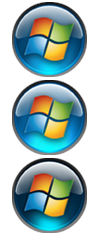
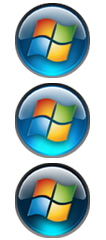
Fix Vista orb appearing offscreen with autohide
Also had to tweak the viewbox of scaled images due to other states bleeding in
Also fixed some brief orb positioning issues when changing the taskbar edge with autohide

diff --git a/RetroBar/Themes/Windows Vista Aero.xaml b/RetroBar/Themes/Windows Vista Aero.xaml
@@ -1063,6 +1063,8 @@
                                                     Viewbox="0,0,1,0.3333" />
                                     </Setter.Value>
                                 </Setter>
+                                <Setter Property="Margin" Value="0,-5,0,0" />
+                                <Setter Property="Height" Value="35" />
                             </MultiDataTrigger.Setters>
                         </MultiDataTrigger>
                         <MultiDataTrigger>
@@ -1080,7 +1082,7 @@
                                     <Setter.Value>
                                         <ImageBrush ImageSource="{DynamicResource StartButtonImageBottomScaled}"
                                                     ViewboxUnits="RelativeToBoundingBox"
-                                                    Viewbox="0,0,1,0.3333" />
+                                                    Viewbox="0,0.01,1,0.32" />
                                     </Setter.Value>
                                 </Setter>
                             </MultiDataTrigger.Setters>
@@ -1122,7 +1124,7 @@
                                     <Setter.Value>
                                         <ImageBrush ImageSource="{DynamicResource StartButtonImageBottomScaled}"
                                                     ViewboxUnits="RelativeToBoundingBox"
-                                                    Viewbox="0,0.3333,1,0.3333" />
+                                                    Viewbox="0,0.3433,1,0.32" />
                                     </Setter.Value>
                                 </Setter>
                             </MultiDataTrigger.Setters>
@@ -1164,7 +1166,7 @@
                                     <Setter.Value>
                                         <ImageBrush ImageSource="{DynamicResource StartButtonImageBottomScaled}"
                                                     ViewboxUnits="RelativeToBoundingBox"
-                                                    Viewbox="0,0.6666,1,0.3333" />
+                                                    Viewbox="0,0.6766,1,0.32" />
                                     </Setter.Value>
                                 </Setter>
                             </MultiDataTrigger.Setters>
@@ -1206,7 +1208,7 @@
                                     <Setter.Value>
                                         <ImageBrush ImageSource="{DynamicResource StartButtonImageBottomScaled}"
                                                     ViewboxUnits="RelativeToBoundingBox"
-                                                    Viewbox="0,0.6666,1,0.3333" />
+                                                    Viewbox="0,0.6766,1,0.32" />
                                     </Setter.Value>
                                 </Setter>
                             </MultiDataTrigger.Setters>
@@ -1214,7 +1216,7 @@
                         <MultiDataTrigger>
                             <MultiDataTrigger.Conditions>
                                 <Condition Binding="{Binding Path=AppBarEdge, RelativeSource={RelativeSource Mode=FindAncestor, AncestorType={x:Type Window}}}"
-                                     Value="Top"/>
+                                           Value="Top"/>
                                 <Condition Binding="{Binding Path=Rows, RelativeSource={RelativeSource Mode=FindAncestor, AncestorType={x:Type Window}}}"
                                            Value="1"/>
                             </MultiDataTrigger.Conditions>
@@ -1227,6 +1229,8 @@
                                                     Viewbox="0,0,1,0.3333" />
                                     </Setter.Value>
                                 </Setter>
+                                <Setter Property="Margin" Value="0,0,0,-6" />
+                                <Setter Property="Height" Value="36" />
                             </MultiDataTrigger.Setters>
                         </MultiDataTrigger>
                         <MultiDataTrigger>
@@ -1244,7 +1248,7 @@
                                     <Setter.Value>
                                         <ImageBrush ImageSource="{DynamicResource StartButtonImageTopScaled}"
                                                     ViewboxUnits="RelativeToBoundingBox"
-                                                    Viewbox="0,0,1,0.3333" />
+                                                    Viewbox="0,0,1,0.32" />
                                     </Setter.Value>
                                 </Setter>
                             </MultiDataTrigger.Setters>
@@ -1286,7 +1290,7 @@
                                     <Setter.Value>
                                         <ImageBrush ImageSource="{DynamicResource StartButtonImageTopScaled}"
                                                     ViewboxUnits="RelativeToBoundingBox"
-                                                    Viewbox="0,0.3333,1,0.3333" />
+                                                    Viewbox="0,0.3333,1,0.32" />
                                     </Setter.Value>
                                 </Setter>
                             </MultiDataTrigger.Setters>
@@ -1328,7 +1332,7 @@
                                     <Setter.Value>
                                         <ImageBrush ImageSource="{DynamicResource StartButtonImageTopScaled}"
                                                     ViewboxUnits="RelativeToBoundingBox"
-                                                    Viewbox="0,0.6666,1,0.3333" />
+                                                    Viewbox="0,0.6666,1,0.32" />
                                     </Setter.Value>
                                 </Setter>
                             </MultiDataTrigger.Setters>
@@ -1370,7 +1374,7 @@
                                     <Setter.Value>
                                         <ImageBrush ImageSource="{DynamicResource StartButtonImageTopScaled}"
                                                     ViewboxUnits="RelativeToBoundingBox"
-                                                    Viewbox="0,0.6666,1,0.3333" />
+                                                    Viewbox="0,0.6666,1,0.32" />
                                     </Setter.Value>
                                 </Setter>
                             </MultiDataTrigger.Setters>

diff --git a/RetroBar/Taskbar.xaml.cs b/RetroBar/Taskbar.xaml.cs
@@ -296,11 +296,13 @@ namespace RetroBar
         private void Taskbar_OnLocationChanged(object sender, EventArgs e)
         {
             UpdateTrayPosition();
+            StartButton?.UpdateFloatingStartCoordinates();
         }
 
         private void Taskbar_OnSizeChanged(object sender, SizeChangedEventArgs e)
         {
             UpdateTrayPosition();
+            StartButton?.UpdateFloatingStartCoordinates();
         }
 
         private void Taskbar_Deactivated(object sender, EventArgs e)
